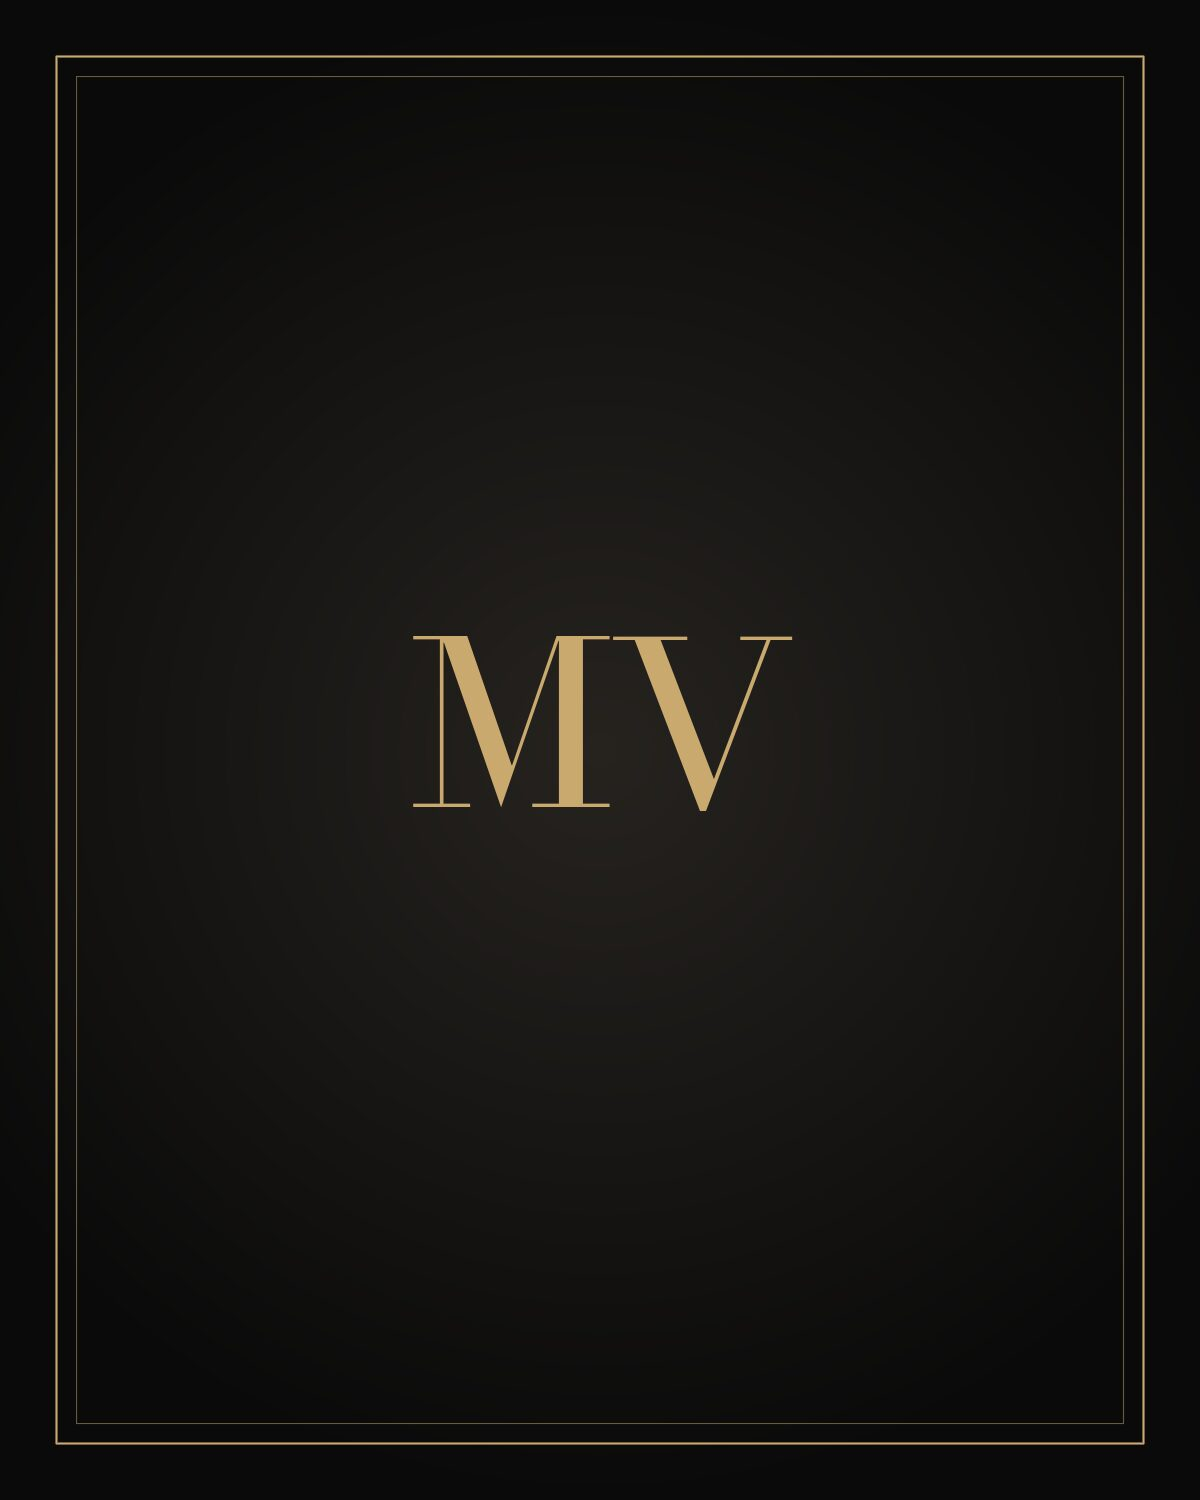
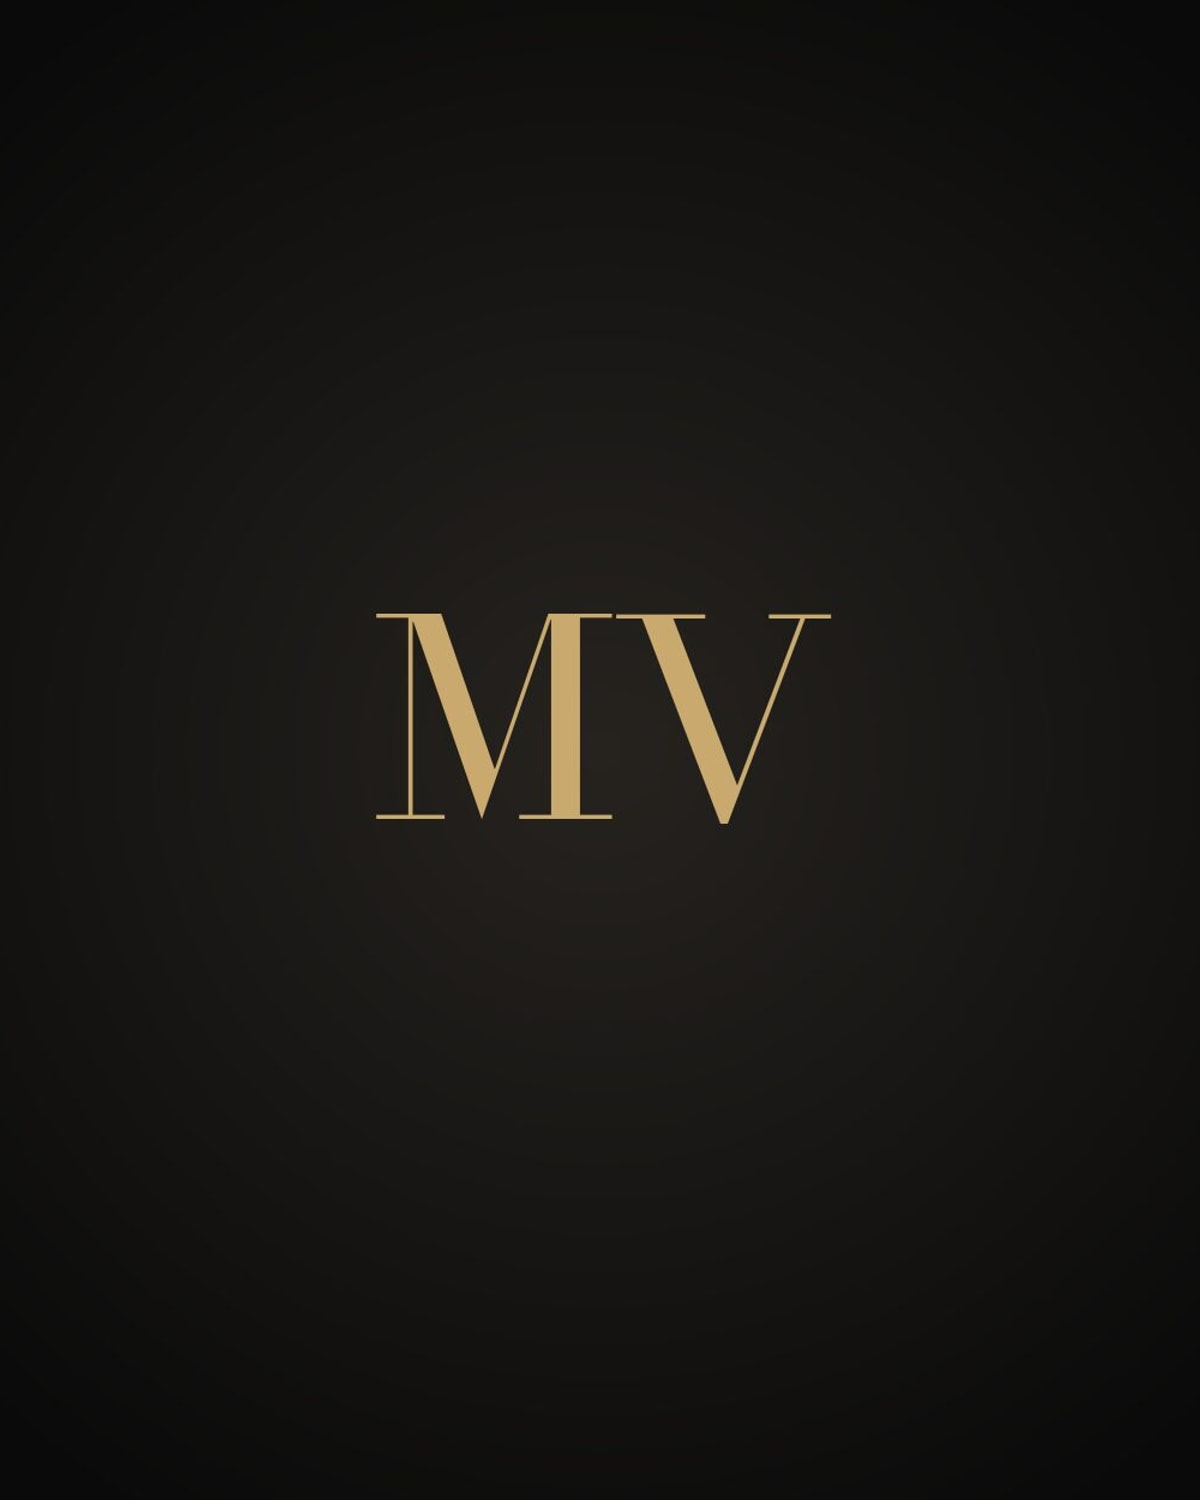
fix(catalog): edge-to-edge placeholder aligned with product photos
- The placeholder image had a frame drawn inside its edges, so cards without
  a photo looked narrower than the others and their text looked misaligned
- "Photo to follow" stores no media; the catalog shows the shared placeholder
- detachPhotosBySha + one-off script for databases seeded before
- Fix scripts/purge-inquiries.ts (top-level await never ran under tsx)

Changed region(s): [[0.3083, 0.3987, 0.6783, 0.552], [0.925, 0.0307, 0.9558, 0.9507]]

diff --git a/tests/integration/placeholder-photos.int.test.ts b/tests/integration/placeholder-photos.int.test.ts
@@ -1,0 +1,55 @@
+import { createHash } from "node:crypto";
+import { eq } from "drizzle-orm";
+import { afterAll, afterEach, beforeEach, describe, expect, it } from "vitest";
+import { productMedia, products } from "@/db/schema";
+import { seedCatalog } from "@/db/seed";
+import { addProductImage } from "@/lib/server/catalog/admin";
+import { detachPhotosBySha } from "@/lib/server/catalog/maintenance";
+import { storeImage } from "@/lib/server/media/store";
+import { listRevisions } from "@/lib/server/revisions";
+import { closeTestDb, sampleJpeg, tempMediaRoot, withRollback } from "./helpers";
+
+afterAll(closeTestDb);
+let media: ReturnType<typeof tempMediaRoot>;
+beforeEach(() => {
+  media = tempMediaRoot();
+});
+afterEach(() => media.cleanup());
+
+const SLUG = "rolex-explorer-224270";
+
+describe("detachPhotosBySha (old placeholder copies)", () => {
+  it("detaches only the matching photo, as a new audited version, idempotently", () =>
+    withRollback(async (tx) => {
+      await seedCatalog(tx, { mediaRoot: media.root });
+      const [product] = await tx.select().from(products).where(eq(products.slug, SLUG));
+      const before = await tx
+        .select()
+        .from(productMedia)
+        .where(eq(productMedia.productId, product!.id));
+      expect(before.length).toBeGreaterThan(0);
+
+      const placeholderBytes = await sampleJpeg("#0a0a0a");
+      const copy = await storeImage(tx, media.root, {
+        input: placeholderBytes,
+        kind: "product",
+        entitySlug: SLUG,
+        alt: { de: "Platzhalter" },
+      });
+      await addProductImage(tx, null, product!.id, copy.id);
+      const sha = createHash("sha256").update(placeholderBytes).digest("hex");
+
+      expect(await detachPhotosBySha(tx, sha)).toBe(1);
+
+      const after = await tx
+        .select({ mediaId: productMedia.mediaId })
+        .from(productMedia)
+        .where(eq(productMedia.productId, product!.id));
+      expect(after.map((r) => r.mediaId)).toEqual(before.map((r) => r.mediaId));
+      const [latest] = await listRevisions(tx, "product", product!.id);
+      expect(latest?.data).toMatchObject({ mediaIds: before.map((r) => r.mediaId) });
+
+      // Running it again changes nothing.
+      expect(await detachPhotosBySha(tx, sha)).toBe(0);
+    }));
+});

diff --git a/tests/integration/catalog.int.test.ts b/tests/integration/catalog.int.test.ts
@@ -23,6 +23,12 @@ const now = new Date("2026-10-14T12:00:00Z");
 describe("seedCatalog + loadCatalog", () => {
   it("round-trips every seed product unchanged (characterization)", () =>
     withRollback(async (tx) => {
+      expect(
+        SEED_PRODUCTS.filter((p) =>
+          p.images.some((i) => i.src === PLACEHOLDER_IMAGE.src),
+        ),
+        "the demo data contains photo-to-follow products, so this branch is exercised",
+      ).not.toHaveLength(0);
       await seedCatalog(tx, { mediaRoot: media.root, now });
       const catalog = await loadCatalog(tx);
 
@@ -43,8 +49,14 @@ describe("seedCatalog + loadCatalog", () => {
           description: resolveTranslations(seed.description),
         });
         expect(brandName).toBe(SEED_BRANDS.find((b) => b.slug === seed.brand)?.name);
+        const photos = seedImages.filter((i) => i.src !== PLACEHOLDER_IMAGE.src);
+        if (photos.length === 0) {
+          // "Photo to follow": nothing is stored, the catalog shows the shared placeholder.
+          expect(images).toEqual([PLACEHOLDER_IMAGE]);
+          continue;
+        }
         expect(images.map((i) => i.alt)).toEqual(
-          seedImages.map((i) => resolveTranslations(i.alt)),
+          photos.map((i) => resolveTranslations(i.alt)),
         );
         for (const image of images)
           expect(image.src).toMatch(

diff --git a/db/seed.ts b/db/seed.ts
@@ -2,6 +2,7 @@ import { readFile } from "node:fs/promises";
 import { join } from "node:path";
 import { eq } from "drizzle-orm";
 import { recordRevision } from "@/lib/server/revisions";
+import { PLACEHOLDER_IMAGE } from "@/lib/catalog/placeholder";
 import { storeImage } from "@/lib/server/media/store";
 import { toSnapshot } from "@/lib/server/snapshot";
 import { connect, type Database, type Executor } from "./connection";
@@ -139,7 +140,10 @@ export async function seedCatalog(
         .returning();
 
       const mediaIds: string[] = [];
-      for (const [position, image] of seed.images.entries()) {
+      // "Photo to follow" is no photo: the product keeps no media and the catalog
+      // shows the shared placeholder until a real photo is uploaded.
+      const photos = seed.images.filter((image) => image.src !== PLACEHOLDER_IMAGE.src);
+      for (const [position, image] of photos.entries()) {
         const record = await store(tx, image, "product", seed.slug);
         await tx
           .insert(productMedia)

diff --git a/lib/server/catalog/maintenance.ts b/lib/server/catalog/maintenance.ts
@@ -1,0 +1,22 @@
+import { eq } from "drizzle-orm";
+import type { Executor } from "@/db/connection";
+import { media, productMedia } from "@/db/schema";
+import { removeProductImage } from "./admin";
+
+/**
+ * Detaches every product photo whose original bytes have the given SHA-256 —
+ * e.g. copies of an old placeholder stored by earlier seeds. Each removal is a
+ * normal, versioned and audited change (actor: system); the media files stay
+ * in the library. Running it again finds nothing.
+ */
+export async function detachPhotosBySha(tx: Executor, sha256: string): Promise<number> {
+  const links = await tx
+    .select({ productId: productMedia.productId, mediaId: productMedia.mediaId })
+    .from(productMedia)
+    .innerJoin(media, eq(media.id, productMedia.mediaId))
+    .where(eq(media.sha256, sha256));
+  for (const link of links) {
+    await removeProductImage(tx, null, link.productId, link.mediaId);
+  }
+  return links.length;
+}

diff --git a/scripts/detach-old-placeholders.ts b/scripts/detach-old-placeholders.ts
@@ -1,0 +1,22 @@
+import { connect } from "@/db/connection";
+import { detachPhotosBySha } from "@/lib/server/catalog/maintenance";
+
+/*
+ * One-off data fix for databases seeded before 2026-11-07: those seeds stored
+ * the old framed placeholder (public/images/placeholder-mv.jpg, this SHA-256)
+ * as a product photo. Products that only had it now show the shared, frameless
+ * placeholder. Every change is a new product version (restorable); safe to re-run.
+ */
+const OLD_PLACEHOLDER_SHA256 =
[1 lines of base64/hex data omitted]
+
+const { db, close } = connect(process.env.DATABASE_URL, { max: 1 });
+db.transaction((tx) => detachPhotosBySha(tx, OLD_PLACEHOLDER_SHA256))
+  .then((detached) =>
+    console.log(`placeholder copies detached from products: ${detached}`),
+  )
+  .catch((error: unknown) => {
+    console.error(error);
+    process.exitCode = 1;
+  })
+  .finally(close);

diff --git a/scripts/purge-inquiries.ts b/scripts/purge-inquiries.ts
@@ -6,12 +6,15 @@ import { applyInquiryRetention } from "@/lib/server/inquiries/retention";
  * any time; schedule it daily, e.g. cron: 15 3 * * * npm run inquiries:purge
  */
 const { db, close } = connect(process.env.DATABASE_URL, { max: 1 });
-try {
-  const root = process.env.PRIVATE_STORAGE_ROOT ?? "storage/private";
-  const { purged, orphans } = await applyInquiryRetention(db, root);
-  console.log(
-    `retention applied: ${purged} inquiries deleted, ${orphans} orphan folders removed`,
-  );
-} finally {
-  await close();
-}
+const root = process.env.PRIVATE_STORAGE_ROOT ?? "storage/private";
+applyInquiryRetention(db, root)
+  .then(({ purged, orphans }) =>
+    console.log(
+      `retention applied: ${purged} inquiries deleted, ${orphans} orphan folders removed`,
+    ),
+  )
+  .catch((error: unknown) => {
+    console.error(error);
+    process.exitCode = 1;
+  })
+  .finally(close);

diff --git a/ACTIONS-TAKEN.md b/ACTIONS-TAKEN.md
@@ -159,3 +159,8 @@ Status values: `PASS`, `FAIL`, `NOT RUN` (with reason), `N/A` (with reason). Not
 | 147 | Full pipeline on 16.4.5                                                                                                                                                                                                                                                                                                                                                                                                                                                                                                                                                                                                                                           | `npm run verify`                                                                                                                                                                                                                                                                                                                                                                 | unit 348, integration 84, E2E 345 + 208, audit 0, format ✓ (twice)                                                                                                                                                                                                                                          | PASS                                                              |
 | 148 | Hardening raised twice by the upgrade review: anonymous uploads reached `sharp().metadata()` before the format allow-list, so formats we never accept (e.g. SVG) were parsed by sharp                                                                                                                                                                                                                                                                                                                                                                                                                                                                             | RED: integration test showed `Unsupported image format: svg` (SVG decoded by sharp); GREEN: `sniffImageFormat` (JPEG/PNG/WebP signatures) runs before any decoder, and sharp's format must match the sniffed one                                                                                                                                                                 | unit 2, integration 1 new                                                                                                                                                                                                                                                                                   | PASS                                                              |
 | 149 | Full pipeline                                                                                                                                                                                                                                                                                                                                                                                                                                                                                                                                                                                                                                                     | `npm run verify`                                                                                                                                                                                                                                                                                                                                                                 | unit 350, integration 85, E2E 345 + 208, audit 0, format ✓                                                                                                                                                                                                                                                  | PASS                                                              |
+| 150 | User report (screenshot): text under cards looked misaligned with the "MV" placeholder cards. Measured: image box and text start at the same x on every card (layout correct); cause: the placeholder JPEG had a double gold frame drawn 55–76 px inside its edges, which read as a narrower, shorter card                                                                                                                                                                                                                                                                                                                                                        | `getBoundingClientRect` of all cards; pixel profile of the image                                                                                                                                                                                                                                                                                                                 | —                                                                                                                                                                                                                                                                                                           | FOUND                                                             |
+| 151 | New edge-to-edge placeholder: old image cropped inside the frame (x 100–1100, y 125–1375, 4:5 kept) and resized to 1200×1500; 0 gold pixels near the edges                                                                                                                                                                                                                                                                                                                                                                                                                                                                                                        | sharp; visual check at 1280 px (placeholder card aligned with photos)                                                                                                                                                                                                                                                                                                            | PASS                                                                                                                                                                                                                                                                                                        | PASS                                                              |
+| 152 | Data model: "photo to follow" now stores no media in the seed (catalog falls back to the shared placeholder); characterization test asserts it; `detachPhotosBySha` (versioned, audited, idempotent) + one-off `scripts/detach-old-placeholders.ts` for databases seeded before — dev DB: 7 detached, re-run 0                                                                                                                                                                                                                                                                                                                                                    | integration tests (catalog 17, maintenance 1)                                                                                                                                                                                                                                                                                                                                    | PASS                                                                                                                                                                                                                                                                                                        | PASS                                                              |
+| 153 | **Own bug found**: `scripts/purge-inquiries.ts` (#133) used top-level `await`, which tsx compiles to CommonJS → it never ran; I had not executed it. Rewritten like the other scripts and run                                                                                                                                                                                                                                                                                                                                                                                                                                                                     | `npm run inquiries:purge` → "retention applied: 0 …, 0 …"                                                                                                                                                                                                                                                                                                                        | PASS                                                                                                                                                                                                                                                                                                        | PASS                                                              |
+| 154 | Full pipeline                                                                                                                                                                                                                                                                                                                                                                                                                                                                                                                                                                                                                                                     | `npm run verify`                                                                                                                                                                                                                                                                                                                                                                 | unit 350, integration 86, E2E 345 + 208, audit 0, format ✓                                                                                                                                                                                                                                                  | PASS                                                              |
